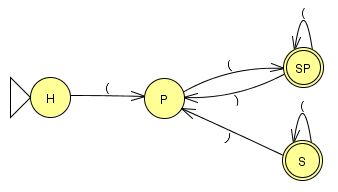
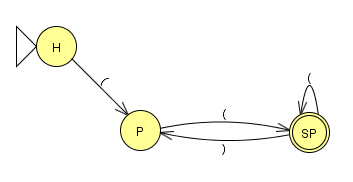
Grammar changes

diff --git a/PLT_lab1/MainWindow.xaml b/PLT_lab1/MainWindow.xaml
@@ -27,11 +27,6 @@
             <Run Text="f( SP,( ) = SP" FontSize="24"/>
             <LineBreak/>
             <Run Text="f( SP,) ) = P" FontSize="24"/>
-            <LineBreak/>
-            <Run Text="f( S,( ) = S" FontSize="24"/>
-            <LineBreak/>
-            <Run Text="f( S,) ) = P" FontSize="24"/>
-            <LineBreak/>
         </TextBlock>
 
         <Image Grid.Column="0" Grid.Row="3" Grid.RowSpan="2" Name="image">
